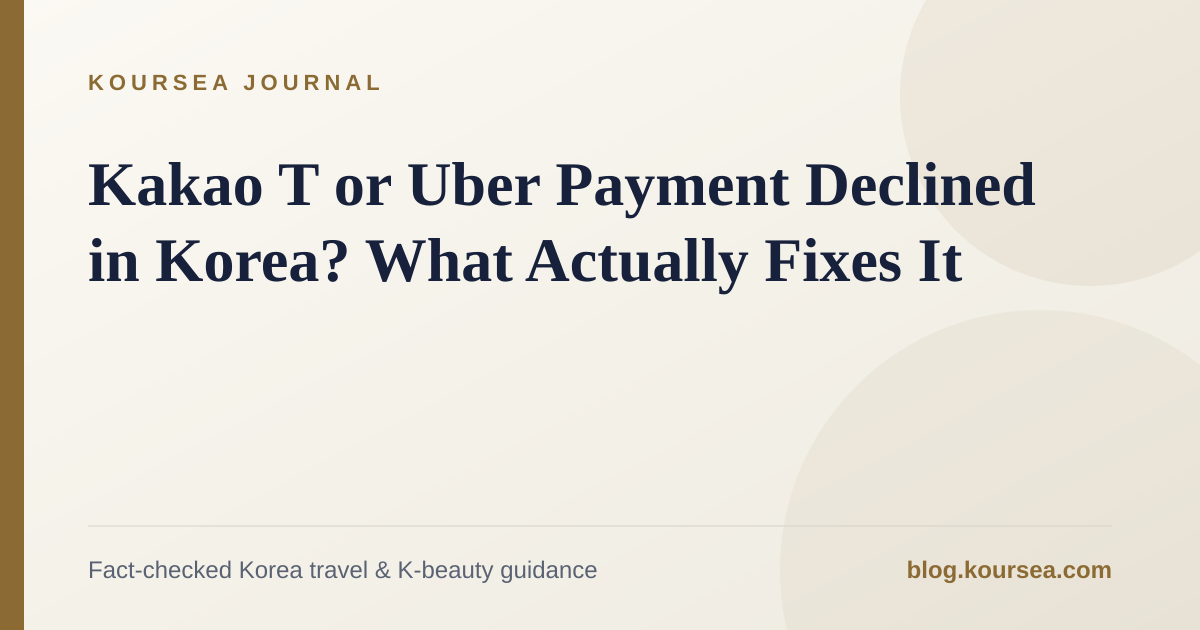
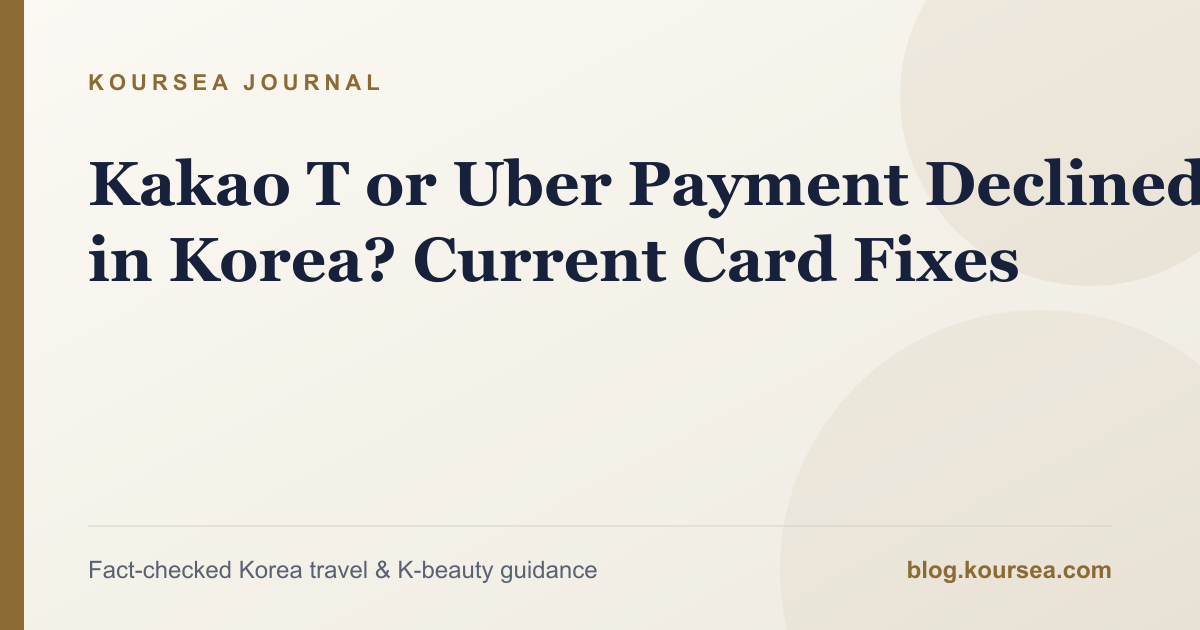
content: correct taxi payment and tax refund guides

diff --git a/src/content/posts/kakao-t-uber-foreign-card-error-fix.md b/src/content/posts/kakao-t-uber-foreign-card-error-fix.md
@@ -1,38 +1,63 @@
 ---
-title: "Kakao T or Uber Payment Declined in Korea? What Actually Fixes It"
-description: "Why foreign credit cards get rejected in Kakao T and Uber in Korea, and the pay-to-driver workaround that gets you moving anyway."
+title: "Kakao T or Uber Payment Declined in Korea? Current Card Fixes"
+description: "Check supported foreign cards, choose on-site payment correctly, and avoid double charges when Kakao T or Uber Taxi payment fails in Korea."
 pubDate: 2026-09-06
-updatedDate: 2026-09-06
+updatedDate: 2026-09-28
 tags: ["kakao t", "uber korea", "taxi payment", "koursea"]
 canonicalUrl: "https://blog.koursea.com/posts/kakao-t-uber-foreign-card-error-fix/"
 author: "Koursea Editorial"
 faq:
   - question: "Why does my foreign card get declined in the Kakao T app?"
-    answer: "Kakao T's in-app payment is optimized for domestic Korean card networks. Some foreign-issued Visa and Mastercard numbers go through fine, but a meaningful share get declined at authorization, independent of your card's actual balance or limit."
-  - question: "What is 'Pay to Driver' and how do I use it?"
-    answer: "It's a setting inside Kakao T that switches your ride from in-app payment to paying the driver directly — by cash or by tapping a card reader in the vehicle — once you arrive. It sidesteps the in-app authorization step entirely."
+    answer: "Kakao Mobility officially lists overseas-issued Visa, Mastercard, JCB and American Express cards for taxi use. A decline can still come from the issuer, an expired or incorrectly stored card, an overseas or online-payment block, or a temporary authorization failure. Check the card network and issuer settings before assuming foreign cards are unsupported."
+  - question: "Can I pay the taxi driver instead of using in-app payment?"
+    answer: "Only choose an on-site or direct-payment option that the app actually shows before requesting the ride. Uber's current Seoul taxi page says its in-person option allows cash or card payment at the end. In Kakao T, confirm the payment method shown on the request screen; do not pay the driver again when automatic payment is selected."
   - question: "Does Uber work the same way in Korea?"
-    answer: "Uber in Korea largely runs through partnered taxi fleets rather than private drivers, and payment flows through the same in-app system as Kakao T's international users often run into. If in-app payment fails, the driver can usually take a card or cash directly at the end of the ride."
+    answer: "Uber Taxi in Seoul supports both saved-card payment and an in-person payment option, but the option must be selected in the app. Uber's help guidance says cash should only be paid when cash or on-site payment was chosen for that trip."
 ---
 
-# Kakao T or Uber Payment Declined in Korea? What Actually Fixes It
+# Kakao T or Uber Payment Declined in Korea? Current Card Fixes
 
-Your ride shows up, you get in, and then the app throws a payment error instead of confirming the trip. This is one of the most common friction points for visitors using Kakao T or Uber in Korea, and it's a card-network issue, not something wrong with your account or your bank balance.
+Your taxi request fails at the payment step, but the message does not explain whether the problem is the card, the app or the ride option. The safest fix is to check the payment method **before** requesting another car. Kakao T and Uber Taxi do not use identical payment screens, and paying twice is a bigger problem than a single failed authorization.
 
 ## Why it happens
 
-Kakao T's default in-app payment flow is built around domestic Korean card rails. Foreign-issued cards — even mainstream Visa and Mastercard — authorize inconsistently depending on the issuing bank and how the transaction is coded. You can have plenty of available credit and still get declined.
+Kakao Mobility's current customer-support page says overseas-issued **Visa, Mastercard, JCB and American Express** credit or debit cards can be registered for taxi, bike and pet services. That means a foreign card is not automatically ineligible.
 
-## The fix: switch to Pay to Driver
+A valid card can still fail if the issuer blocks overseas or online transactions, the saved card details are stale, the card is prepaid, or the authorization is temporarily rejected. Start with the exact network printed on the card and the decline notice in the app. If the network is supported, check the issuer's app or call the number on the card rather than repeatedly submitting the same request.
 
-Inside the Kakao T app, there's a payment method option to **pay the driver directly** instead of charging the card on file automatically. This routes payment to a card reader in the vehicle or to cash, sidestepping whatever is causing the in-app authorization to fail. Set this before you book, or switch it if a ride keeps failing to confirm.
+## Check the payment choice before calling
+
+Before confirming a Kakao T taxi request, tap the payment-method area shown on the request screen and review the choices available for that vehicle type. If the screen offers direct or on-site payment, select it **before** calling the taxi. If it does not, do not assume the driver can override the app's payment rule.
+
+Kakao Mobility also warns about double payment: when automatic payment was selected, paying again in the vehicle can create two charges. Keep the paper receipt or card approval record if that happens, then use the trip record in Kakao T to file a double-payment inquiry.
+
+## Uber Taxi: choose in-person payment in the app
+
+Uber's current Seoul taxi page says riders can select an **in-person payment** option and then pay by cash or card at the end of the trip. It also supports adding a card to the Uber account. Availability can depend on the ride option shown in the app, so make the selection before confirming the request.
+
+Do not hand over cash merely because a driver asks when the trip is set to automatic card payment. Uber's rider help says cash should only be paid when that payment option was selected in the app.
+
+## A five-minute recovery sequence
+
+1. Check whether the card is Visa, Mastercard, JCB or American Express for Kakao T.
+2. Confirm overseas and online transactions are enabled with the issuer.
+3. Remove an expired or duplicated saved card and add the intended card again.
+4. Return to the request screen and inspect the payment choice before booking.
+5. If available, choose on-site payment and keep a physical card plus some cash as backup.
+6. Take a screenshot of the decline and retain any vehicle receipt if a second charge appears.
 
 ## If you don't have the language to explain the problem
 
-Keep this ready to show the driver on your phone screen if a payment method doesn't work as expected: **"카드 결제가 안 됩니다. 어떻게 하면 될까요?"** ("My card payment isn't going through — how should I pay?"). Drivers deal with this regularly and will point you to whatever payment method actually works in their vehicle.
+Keep this ready to show the driver on your phone screen if the vehicle reader rejects a card: **"카드 결제가 안 됩니다. 다른 카드나 현금으로 결제해도 될까요?"** ("The card payment is not working. May I pay with another card or cash?"). This is for an on-site-payment trip; it is not permission to pay again when the app already charged you.
 
-## Uber runs into the same wall
+## Do not transfer one app's rule to the other
 
-Uber's Korea service is largely built on partnered taxi fleets rather than independent drivers, so it shares much of the same in-app payment infrastructure — and the same failure pattern. If in-app payment won't go through, the driver can typically take payment directly once you arrive, the same way as a Kakao T ride.
+The two apps can both connect you with licensed taxis, but their payment choices must be read from the specific booking screen. Do not treat a workaround shown for one app, city or vehicle category as a universal rule.
 
 For a full comparison of Kakao T and Uber's foreign-card support, plus which is more reliable for airport pickups, see Koursea's [Kakao T taxi foreign credit card guide](https://www.koursea.com/transport-kakao-t-taxi-foreign-credit-card-korea-guide.html) and the [Uber/UT without a Korean phone number guide](https://www.koursea.com/transport-uber-ut-taxi-seoul-without-korean-number.html).
+
+## Official sources
+
+- [Kakao Mobility taxi payment support](https://service.kakaomobility.com/cs/faqs/content/?category=17)
+- [Uber Taxi in Seoul: payment options](https://www.uber.com/kr/en/r/cities/taxi/seoul-seoul-kr/)
+- [Uber rider help: cash payment requests](https://help.uber.com/ko-KR/riders/article/the-driver-requested-a-cash-payment?nodeId=ba86b3cd-3727-43a1-a7c3-325b7e9f1a15)

diff --git a/src/content/posts/olive-young-guide-foreign-travelers.md b/src/content/posts/olive-young-guide-foreign-travelers.md
@@ -2,7 +2,7 @@
 title: "The Complete Olive Young Guide for Foreign Travelers: Tax Refunds & Store Navigation"
 description: "Navigate Olive Young as a foreign visitor with practical tax-refund steps, flagship and neighborhood store differences, and Korean shopping tips."
 pubDate: 2026-09-03T10:15:19Z
-updatedDate: 2026-09-03T10:15:19Z
+updatedDate: 2026-09-28
 tags:
   - Seoul Travel
   - K-Beauty
@@ -13,11 +13,11 @@ author: "Koursea Editorial"
 
 faq:
   - question: "What is the minimum spend for an instant Olive Young tax refund?"
-    answer: "The guide says eligible shoppers should spend at least 15,000 KRW in one transaction and present a physical foreign passport at checkout."
+    answer: "Official VISITKOREA guidance sets the minimum at 15,000 KRW per purchase. Immediate refunds are available only at participating stores and require passport verification; the single payment must be under 1,000,000 KRW and total eligible trip spending must not exceed 5,000,000 KRW."
   - question: "Do I need my physical passport at Olive Young?"
-    answer: "Yes. The checkout process described here requires the physical passport; a phone photo or digital scan is not accepted by the point-of-sale terminal."
+    answer: "Bring the original passport. Official visitor guidance requires passport verification for an immediate refund, and a photo on your phone should not be treated as a guaranteed substitute."
   - question: "Are flagship and neighborhood Olive Young stores the same?"
-    answer: "No. Flagships such as Myeongdong Town, Gangnam, and Hongdae have larger layouts and more multilingual support, while neighborhood branches are calmer and may have different stock or promotions."
+    answer: "No. Store size, stock and promotion availability vary. A larger location may offer a broader range, but confirm the exact branch and current hours before travelling for one product."
   - question: "How can I prepare before shopping?"
     answer: "Choose product categories such as sunscreen, hydration, blemish care, or gifts before entering, then compare texture, size, and promotion terms in the store."
 coverImage: "/images/blog/olive-young-guide.jpg"
@@ -25,7 +25,7 @@ coverImage: "/images/blog/olive-young-guide.jpg"
 
 # The Complete Olive Young Guide for Foreign Travelers: Tax Refunds & Store Navigation
 
-If you are planning a trip to South Korea, visiting Olive Young is almost certainly on your daily itinerary. With over 1,300 branches nationwide, Olive Young is the central hub for Korean skincare, haircare, and wellness trends.
+If you are planning a trip to South Korea, an Olive Young visit is an easy way to compare Korean skincare, haircare and wellness products in one place. The difficult part is separating current refund rules from store-specific assumptions.
 
 However, many first-time international visitors miss out on instant discounts, struggle with in-store tax refunds, or feel overwhelmed by the sheer volume of identical-looking serums.
 
@@ -35,11 +35,14 @@ Here is everything you need to know to shop Olive Young like an experienced loca
 
 ## 1. How Instant In-Store Tax Refunds Work
 
-South Korea offers an immediate tax refund system at designated tax-free stores, and major Olive Young locations support this right at the checkout register.
+South Korea offers an immediate tax-refund system at designated tax-refund stores. Ask the specific Olive Young branch whether it supports an immediate refund at its checkout.
 
-- **Eligibility Requirements:** You must spend at least **15,000 KRW** in a single transaction and hold a foreign passport with an entry stamp/tourist visa (staying less than 6 months).
-- **Crucial Step:** Always carry your **physical passport**. Digital scans or photos on your phone are not accepted by the point-of-sale terminal.
-- **The Process:** Before scanning your items, hand your passport to the cashier and say *"Tax refund, please."* The system will automatically subtract the Value Added Tax (VAT) from your final total on the spot, saving you from waiting in airport refund lines later.
+- **Eligibility:** Official VISITKOREA guidance says a non-Korean visitor staying less than six months can qualify. The goods must be new and unused, and you must leave Korea within three months of purchase.
+- **Minimum purchase:** At least **15,000 KRW per receipt**.
+- **Immediate-refund limits:** The participating-store payment must be under **1,000,000 KRW**, and eligible purchases during the trip must total no more than **5,000,000 KRW**.
+- **Passport check:** Bring the original passport and ask whether that branch processes immediate refunds. A store logo alone does not prove that every register or branch offers the same process.
+
+If the tax is deducted immediately, keep the receipt and check the final charged amount before leaving. If the branch issues a refund voucher instead, follow the downtown or airport refund procedure printed on it.
 
 ---
 
@@ -47,13 +50,14 @@ South Korea offers an immediate tax refund system at designated tax-free stores,
 
 Not all Olive Young stores offer the same selection.
 
-- **Flagship Locations (Myeongdong Town, Gangnam, Hongdae):**
-  - Massive multi-story layouts with dedicated sections for men's grooming, inner beauty supplements, and niche indie brands.
-  - English/Japanese/Chinese-speaking staff on the floor.
-  - **Drawback:** Extremely crowded, with popular items frequently sold out by late afternoon.
+- **Large destination stores:**
+  - Better when you want to compare many brands or categories in one trip.
+  - More likely to be busy and does not guarantee a particular item is in stock.
 - **Neighborhood Branches (Subway Stations, Residential Alleys):**
-  - Much calmer shopping experience.
-  - Ideal for finding limited-edition "1+1" bundle packs that are completely cleaned out in tourist hotspots.
+  - Often quicker for a short list and easier to revisit near your accommodation.
+  - Stock, tax-refund handling and promotion bundles can differ by branch.
+
+Search the exact branch in a Korean map app and verify its latest hours before making a special trip. For product availability, treat the website or app as a lead rather than a promise that the shelf still has stock.
 
 ---
 
@@ -67,6 +71,19 @@ For a skin-type shopping matrix, current Awards winner context, PDRN trend cauti
 
 ## 4. Key Shopping Hacks Before You Go
 
-- **Look for "1+1" (Won-Plus-Won) Tags:** Korean retail heavily features buy-one-get-one deals. Look for red and yellow shelf tags indicating double-value box sets.
-- **Check the "Olive Young Awards" Section:** Near the front of larger stores, display stands feature the top-ranking items voted by domestic consumers over the past year. These are reliable indicators of current local popularity rather than sponsored trends.
-- **Save Store Coordinates in Korean:** If you are trying to find smaller flagship branches in Seongsu or Hannam-dong, save the Korean name (올리브영) into your mapping app to avoid location mismatches.
+- **Read the exact "1+1" tag:** Buy-one-get-one offers may apply only to a particular size, shade or bundle. Match the shelf label to the barcode before checkout.
+- **Use rankings as a shortlist, not medical advice:** Awards and best-seller displays can help narrow a crowded shelf, but they do not tell you whether an active ingredient suits your skin.
+- **Save the Korean store name:** Search 올리브영 plus the neighborhood in Naver Map or KakaoMap, then check the branch address rather than following a similarly named map result.
+
+## Check the receipt before leaving
+
+Confirm the quantity, promotion and refund treatment while you are still at the counter. A shelf tag can apply only to a particular size, shade or membership condition. Keep products unopened until you are sure you will not need an exchange and until any required tax-refund export check is complete.
+
+The Olive Young Global online shop is a separate purchasing channel with its own prices, inventory, payment methods and shipping rules. Do not use a global-site price as proof of the price in a Korean branch.
+
+## Official sources
+
+- [VISITKOREA duty-free and tax-refund requirements](https://english.visitkorea.or.kr/svc/contents/infoBscView.do?vcontsId=140736)
+- [VISITKOREA tax-refund limits and procedures](https://english.visitkorea.or.kr/svc/contents/contentsView.do?menuSn=929&vcontsId=248768)
+- [CJ Olive Young corporate site](https://corp.oliveyoung.com/en)
+- [Olive Young Global online store](https://global.oliveyoung.com/)
